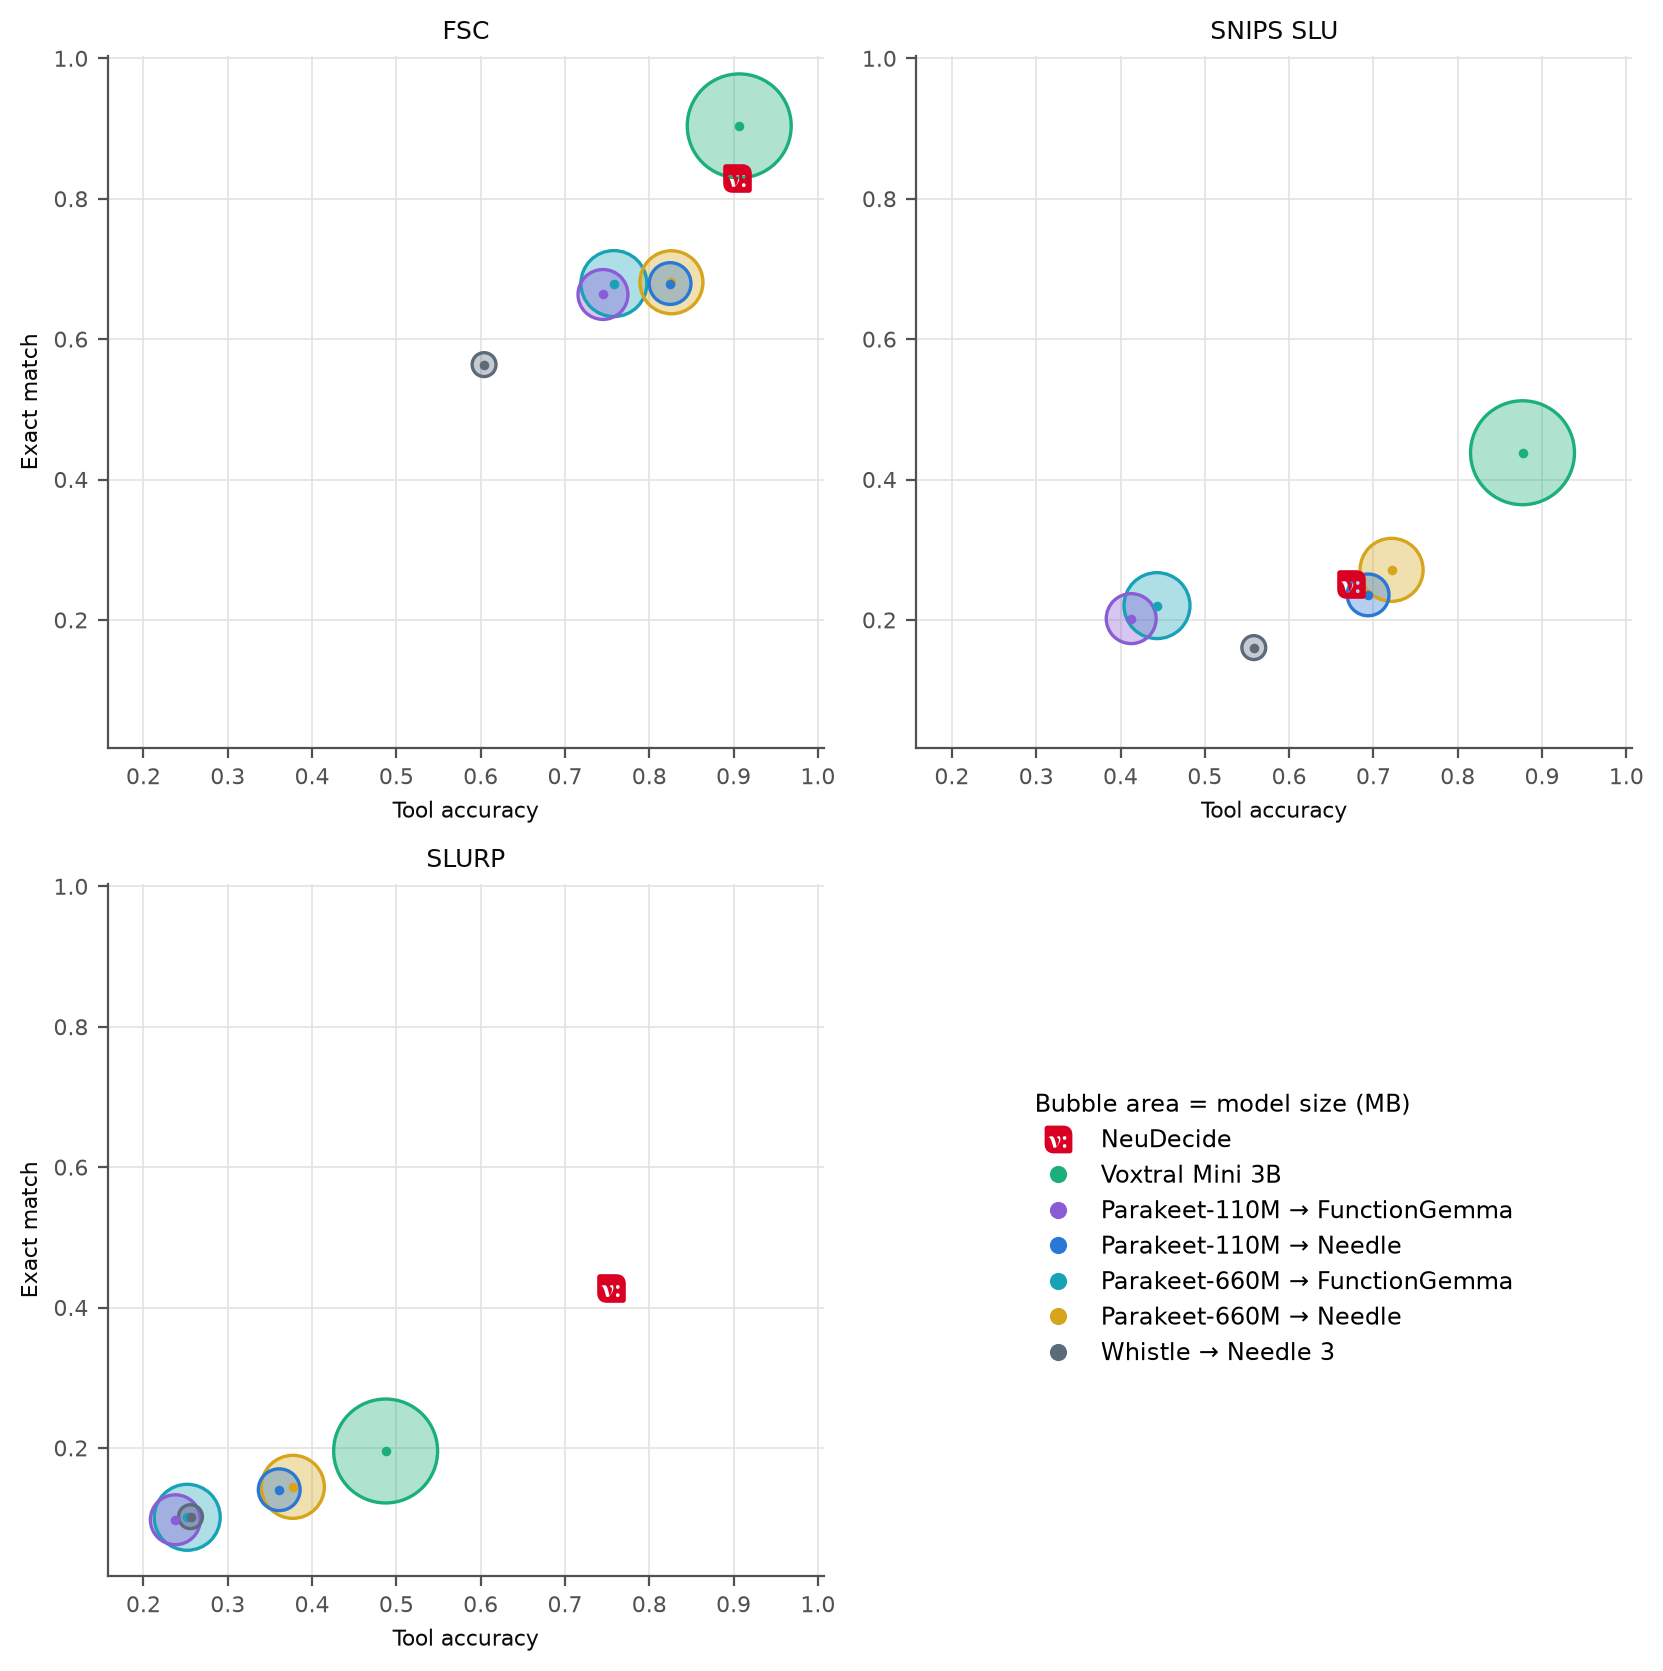
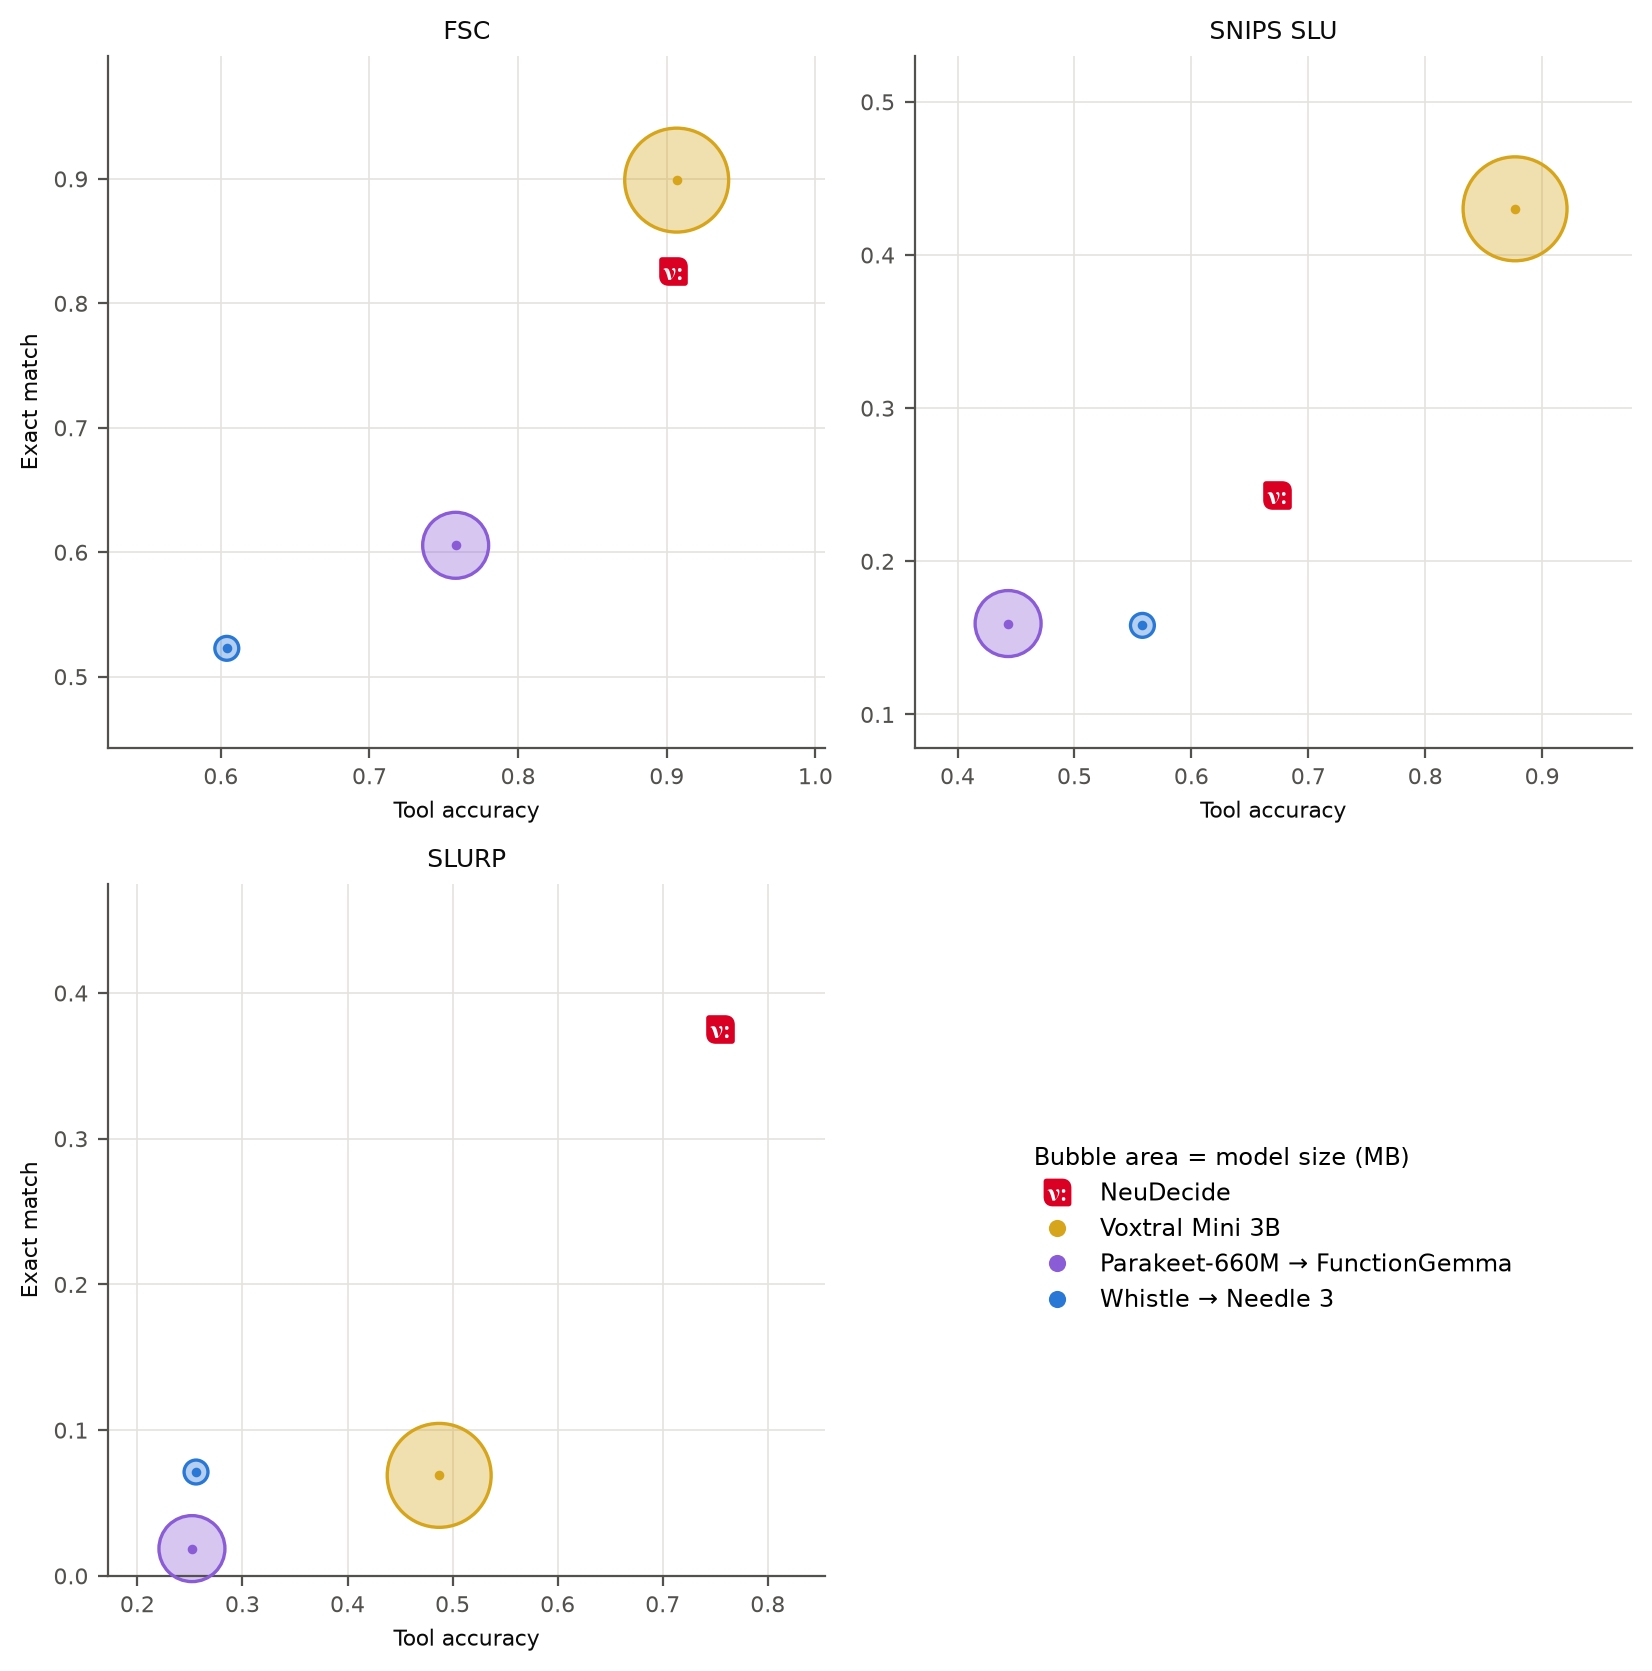
updated readme

diff --git a/README.md b/README.md
@@ -127,10 +127,10 @@ Tools are serialised exactly as Python's `json.dumps` writes them by default, ma
 ## Results
 
 <p align="center">
-  <img src="assets/param_bubbles.png" alt="Exact match against tool accuracy on FSC, SNIPS SLU and SLURP for NeuDecide, Voxtral Mini 3B and ASR + decision-model cascades, with bubble area showing model size" width="720">
+  <img src="assets/param_bubbles.png" alt="Exact match against tool accuracy on FSC, SNIPS SLU and SLURP for NeuDecide, Whistle → Needle 3, Parakeet 660M → FunctionGemma and Voxtral Mini 3B, with bubble area showing model size" width="720">
 </p>
 
-Exact match against tool accuracy on FSC, SNIPS SLU and SLURP, choosing from 10 tools. Each bubble is one system, and its area is the model's size on disk; a cascade counts its ASR and decision model together. ([PDF](assets/param_bubbles.pdf))
+Exact match against tool accuracy on FSC, SNIPS SLU and SLURP, choosing from 10 tools. Each bubble is one of the four systems in the table below, and its area is the model's size on disk; a cascade counts its ASR and decision model together. ([PDF](assets/param_bubbles.pdf))
 
 We compared NeuDecide with five speech-recognition cascades (Parakeet 110M and 660M feeding Needle or FunctionGemma, and Whistle feeding Needle 3) and with Voxtral Mini 3B, an end-to-end speech model. Each system chooses from 10 tools and must pick the right tool and fill its arguments. The table shows two of the cascades alongside Voxtral Mini 3B; a cascade's size counts its ASR and decision model together.
 
